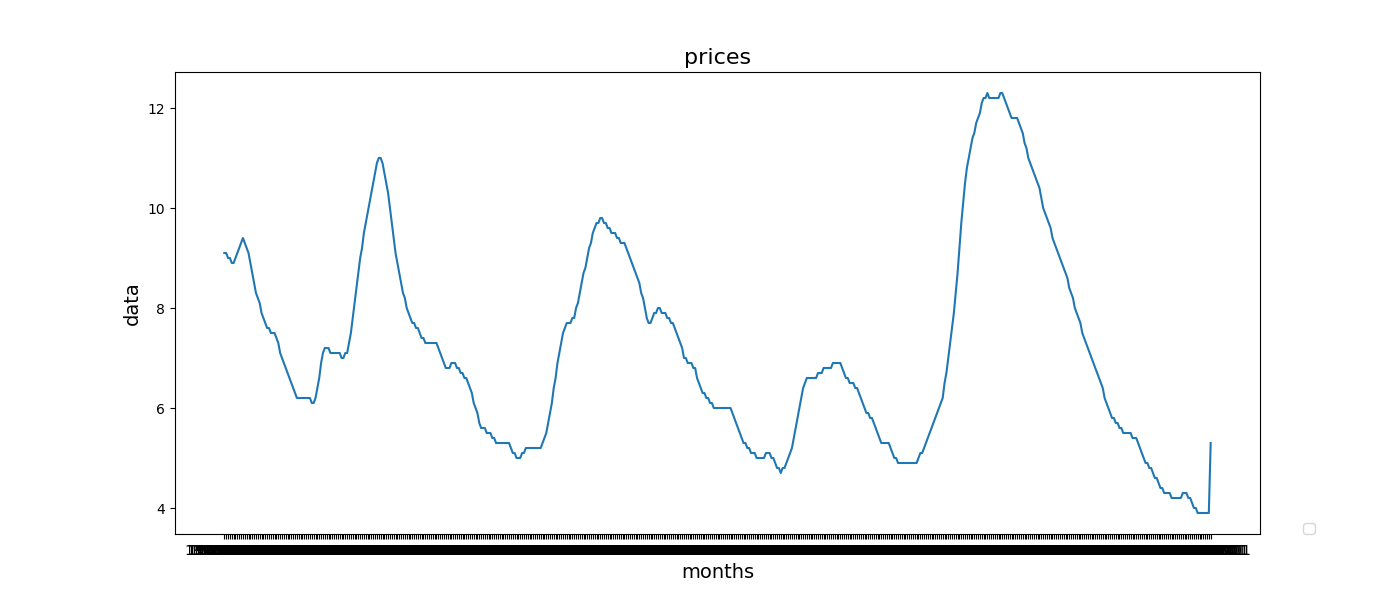
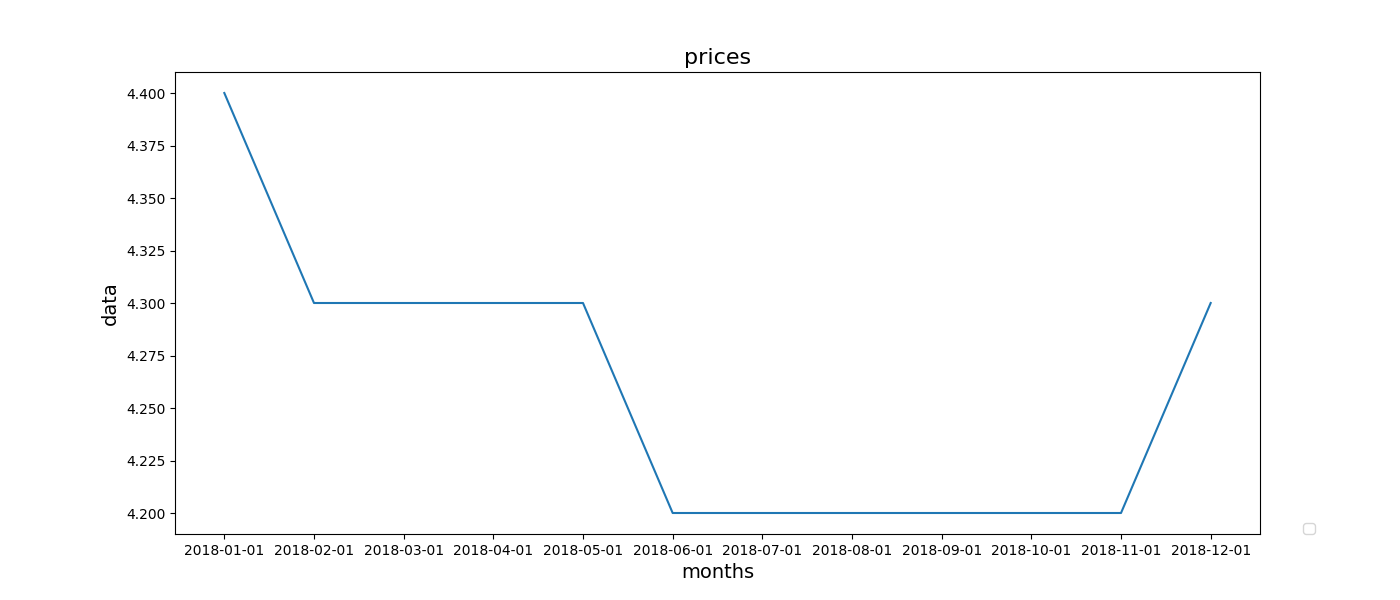
adding in updates to eco

diff --git a/code/local_economy.py b/code/local_economy.py
@@ -13,24 +13,28 @@ class Economy:
 
     def edit_data(self):
         # editing the unemployment data
+        print(self.start)
         self.income_data.rename(columns={ self.income_data.columns[-1]: 'hourly rate'}, 
                                 inplace=True)
+        self.income_data['year'] = self.income_data['DATE'].apply(lambda x: x[:4])
+        self.income_data = self.income_data[self.income_data['year'] == self.start]
         self.income_data.set_index('DATE', inplace=True)
+        self.income_data.pop('year')
 
         # editing the unemployment dataframe
+        self.unemployment_data['year'] = self.unemployment_data['DATE'].apply(lambda x: x[:4])
+        self.unemployment_data = self.unemployment_data[self.unemployment_data['year'] == self.start[:4]]
         self.unemployment_data.set_index('DATE', inplace=True)
+        self.unemployment_data.pop('year')
 
     # getting the data for the 
     def get_data(self):
         self.unemployment_data = pd.read_csv(self.unemployment_path)
         self.income_data = pd.read_csv(self.income_path)
-        print()
-        self.edit_data() # editing the data
+        # editing the data
+        self.edit_data() 
         print(self.income_data.head())
-        print()
         print(self.unemployment_data.head())
-
-
 
     # printing the data
     def print_data(self, xlabel, ylabel, title, fig_path):

diff --git a/code/controller.py b/code/controller.py
@@ -74,10 +74,10 @@ def main():
                        unemployment_path='../data/ca_unemp.csv',
                        income_path='../data/cali_hourly_wages.csv')
     cali_eco.get_data()
-    # cali_eco.print_data(xlabel='months', 
-    #                     ylabel='data',
-    #                     title='prices',
-    #                     fig_path='../data/figures/income.png')
+    cali_eco.print_data(xlabel='months', 
+                        ylabel='data',
+                        title='prices',
+                        fig_path='../data/figures/income.png')
 
     # making NO data and making figures
     # loisianna_stocks = make_la_data()
